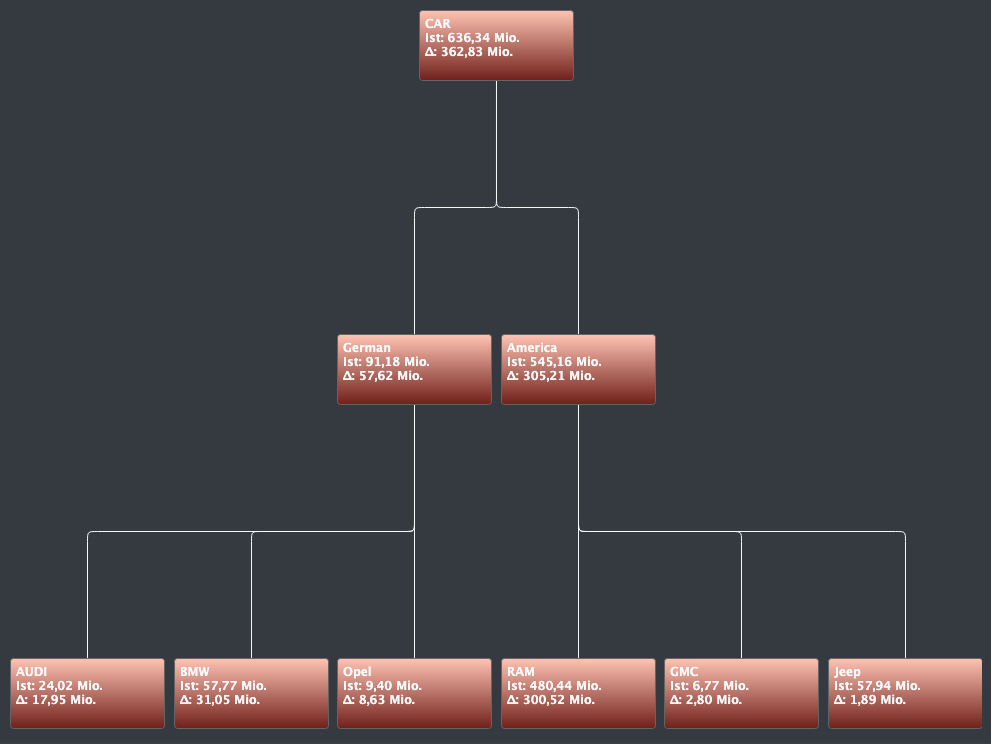
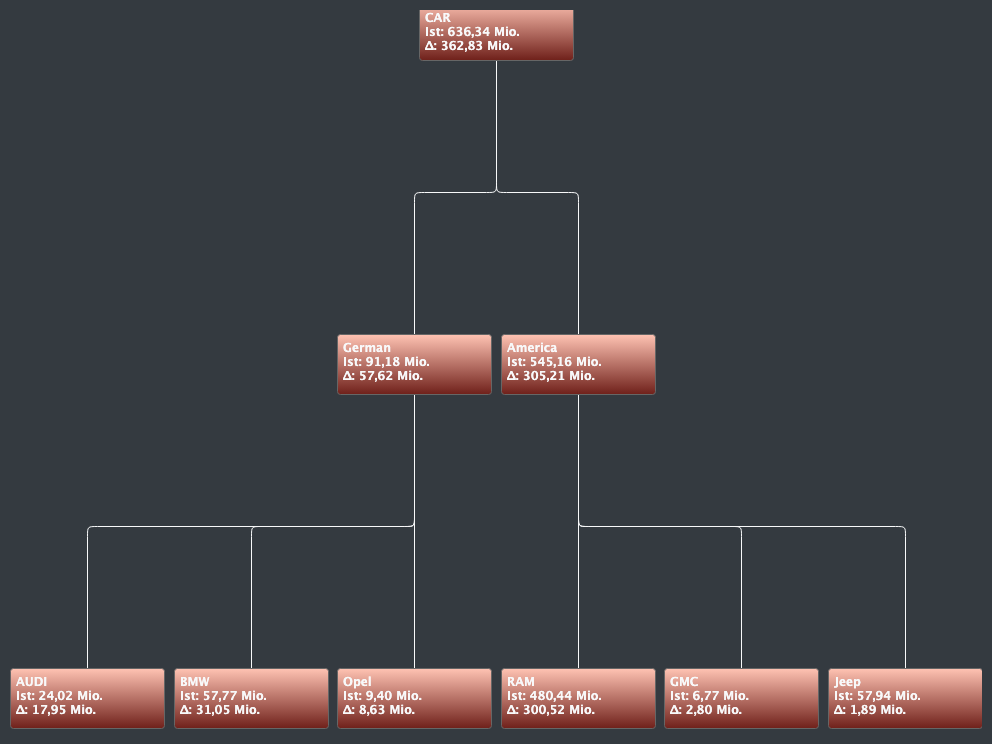
Update as at 05.08.24

Changed region(s): [[0.0, 0.8656, 1.0, 0.9583], [0.4062, 0.0, 0.5938, 0.1237], [0.3438, 0.5255, 0.6562, 0.5565]]

diff --git a/plot.html b/plot.html
@@ -51,9 +51,9 @@
 </head>
 <body>
 <div id="htmlwidget_container">
-  <div class="highchart html-widget html-fill-item" id="htmlwidget-99aafb618bbc64abfa17" style="width:100%;height:500px;"></div>
+  <div class="highchart html-widget html-fill-item" id="htmlwidget-4ff58604aa7c06865cc8" style="width:100%;height:500px;"></div>
 </div>
-<script type="application/json" data-for="htmlwidget-99aafb618bbc64abfa17">{"x":{"hc_opts":{"chart":{"reflow":true,"inverted":true,"backgroundColor":"#343A40"},"title":{"text":null},"yAxis":{"title":{"text":null}},"credits":{"enabled":false},"exporting":{"enabled":false},"boost":{"enabled":false},"plotOptions":{"series":{"label":{"enabled":false},"turboThreshold":0},"treemap":{"layoutAlgorithm":"squarified"},"organization":{"linkColor":"#f8f9fa","nodeWidth":70,"height":70}},"series":[{"data":[{"from":"CAR","to":"German"},{"from":"CAR","to":"America"},{"from":"German","to":"AUDI"},{"from":"German","to":"BMW"},{"from":"German","to":"Opel"},{"from":"America","to":"RAM"},{"from":"America","to":"GMC"},{"from":"America","to":"Jeep"}],"type":"organization","colorByPoint":false,"color":{"linearGradient":{"x1":0,"y1":0,"x2":1,"y2":0},"stops":[["0","#6F201A"],["1","#FFC3B3"]]},"dataLabels":{"enabled":true,"useHTML":true,"style":{"color":"#f8f9fa","fontSize":"12px","fontWeight":"bold","textOutline":false},"nodeFormatter":"function() {\n      let total_xy = 0;\n      let total_mn = 0;\n      if (this.point.id === 'German') {\n        ['AUDI', 'BMW', 'Opel'].forEach(function(id) {\n          let node = this.series.nodes.find(node => node.id === id);\n          if (node) {\n            total_xy += node.xy;\n            total_mn += node.mn;\n          }\n        }, this);\n        return this.point.name + '<br>Ist: ' + Highcharts.numberFormat(total_xy/1000000, 2, ',', '.') + ' Mio.<br>Δ: ' + Highcharts.numberFormat(total_mn/1000000, 2, ',', '.') + ' Mio.';\n      } else if (this.point.id === 'America') {\n        ['RAM', 'GMC', 'Jeep'].forEach(function(id) {\n          let node = this.series.nodes.find(node => node.id === id);\n          if (node) {\n            total_xy += node.xy;\n            total_mn += node.mn;\n          }\n        }, this);\n        return this.point.name + '<br>Ist: ' + Highcharts.numberFormat(total_xy/1000000, 2, ',', '.') + ' Mio.<br>Δ: ' + Highcharts.numberFormat(total_mn/1000000, 2, ',', '.') + ' Mio.';\n      } else if (this.point.id === 'AUDI' || this.point.id === 'BMW' || this.point.id === 'Opel' || this.point.id === 'RAM' || this.point.id === 'GMC' || this.point.id === 'Jeep') {\n        return this.point.name + '<br>Ist: ' + Highcharts.numberFormat(this.point.xy/1000000, 2, ',', '.') + ' Mio.<br>Δ: ' + Highcharts.numberFormat(this.point.mn/1000000, 2, ',', '.') + ' Mio.';\n      } else if (this.point.id === 'CAR') {\n        ['AUDI', 'BMW', 'Opel', 'RAM', 'GMC', 'Jeep'].forEach(function(id) {\n          let node = this.series.nodes.find(node => node.id === id);\n          if (node) {\n            total_xy += node.xy;\n            total_mn += node.mn;\n          }\n        }, this);\n        return this.point.name + '<br>Ist: ' + Highcharts.numberFormat(total_xy/1000000, 2, ',', '.') + ' Mio.<br>Δ: ' + Highcharts.numberFormat(total_mn/1000000, 2, ',', '.') + ' Mio.';\n      } else {\n        return this.point.name;\n      }\n    }"},"nodes":[{"id":"AUDI","xy":24015319,"mn":17945543},{"id":"RAM","xy":480442671,"mn":300517552},{"id":"BMW","xy":57765129,"mn":31052000},{"id":"GMC","xy":6772172,"mn":2798460},{"id":"Opel","xy":9401538,"mn":8626025},{"id":"Jeep","xy":57940350,"mn":1894563},{"id":"CAR"},{"id":"German"},{"id":"America"}]}],"tooltip":{"enabled":true,"useHTML":true,"className":null,"formatter":"function() {\n      let total_xy = 0;\n      let total_mn = 0;\n      if (this.point.id === 'German') {\n        ['AUDI', 'BMW', 'Opel'].forEach(function(id) {\n          let node = this.series.nodes.find(node => node.id === id);\n          if (node) {\n            total_xy += node.xy;\n            total_mn += node.mn;\n          }\n        }, this);\n        return this.point.name + '<br>Total: ' + total_xy.toLocaleString('de-DE') + '<br>Change: ' + total_mn.toLocaleString('de-DE');\n      } else if (this.point.id === 'America') {\n        ['RAM', 'GMC', 'Jeep'].forEach(function(id) {\n          let node = this.series.nodes.find(node => node.id === id);\n          if (node) {\n            total_xy += node.xy;\n            total_mn += node.mn;\n          }\n        }, this);\n        return this.point.name + '<br>Total: ' + total_xy.toLocaleString('de-DE') + '<br>Change: ' + total_mn.toLocaleString('de-DE');\n      } else if (this.point.id === 'AUDI' || this.point.id === 'BMW' || this.point.id === 'Opel' || this.point.id === 'RAM' || this.point.id === 'GMC' || this.point.id === 'Jeep') {\n        return this.point.name + '<br>Total: ' + this.point.xy.toLocaleString('de-DE') + '<br>Change: ' + this.point.mn.toLocaleString('de-DE');\n      } else if (this.point.id === 'CAR') {\n        ['AUDI', 'BMW', 'Opel', 'RAM', 'GMC', 'Jeep'].forEach(function(id) {\n          let node = this.series.nodes.find(node => node.id === id);\n          if (node) {\n            total_xy += node.xy;\n            total_mn += node.mn;\n          }\n        }, this);\n        return this.point.name + '<br>Total: ' + total_xy.toLocaleString('de-DE') + '<br>Change: ' + total_mn.toLocaleString('de-DE');\n      } else {\n        return this.point.name;\n      }\n    }"}},"theme":{"chart":{"backgroundColor":"transparent"},"colors":["#7cb5ec","#434348","#90ed7d","#f7a35c","#8085e9","#f15c80","#e4d354","#2b908f","#f45b5b","#91e8e1"]},"conf_opts":{"global":{"Date":null,"VMLRadialGradientURL":"http =//code.highcharts.com/list(version)/gfx/vml-radial-gradient.png","canvasToolsURL":"http =//code.highcharts.com/list(version)/modules/canvas-tools.js","getTimezoneOffset":null,"timezoneOffset":0,"useUTC":true},"lang":{"contextButtonTitle":"Chart context menu","decimalPoint":".","downloadCSV":"Download CSV","downloadJPEG":"Download JPEG image","downloadPDF":"Download PDF document","downloadPNG":"Download PNG image","downloadSVG":"Download SVG vector image","downloadXLS":"Download XLS","drillUpText":"◁ Back to {series.name}","exitFullscreen":"Exit from full screen","exportData":{"annotationHeader":"Annotations","categoryDatetimeHeader":"DateTime","categoryHeader":"Category"},"hideData":"Hide data table","invalidDate":null,"loading":"Loading...","months":["January","February","March","April","May","June","July","August","September","October","November","December"],"noData":"No data to display","numericSymbolMagnitude":1000,"numericSymbols":["k","M","G","T","P","E"],"printChart":"Print chart","resetZoom":"Reset zoom","resetZoomTitle":"Reset zoom level 1:1","shortMonths":["Jan","Feb","Mar","Apr","May","Jun","Jul","Aug","Sep","Oct","Nov","Dec"],"shortWeekdays":["Sat","Sun","Mon","Tue","Wed","Thu","Fri"],"thousandsSep":" ","viewData":"View data table","viewFullscreen":"View in full screen","weekdays":["Sunday","Monday","Tuesday","Wednesday","Thursday","Friday","Saturday"]}},"type":"chart","fonts":[],"debug":false},"evals":["hc_opts.series.0.dataLabels.nodeFormatter","hc_opts.tooltip.formatter"],"jsHooks":[]}</script>
-<script type="application/htmlwidget-sizing" data-for="htmlwidget-99aafb618bbc64abfa17">{"viewer":{"width":"100%","height":350,"padding":0,"fill":true},"browser":{"width":"100%","height":500,"padding":0,"fill":true}}</script>
+<script type="application/json" data-for="htmlwidget-4ff58604aa7c06865cc8">{"x":{"hc_opts":{"chart":{"reflow":true,"inverted":true,"backgroundColor":"#343A40"},"title":{"text":null},"yAxis":{"title":{"text":null}},"credits":{"enabled":false},"exporting":{"enabled":false},"boost":{"enabled":false},"plotOptions":{"series":{"label":{"enabled":false},"turboThreshold":0},"treemap":{"layoutAlgorithm":"squarified"},"organization":{"linkColor":"#f8f9fa","nodeWidth":50,"height":60}},"series":[{"data":[{"from":"CAR","to":"German"},{"from":"CAR","to":"America"},{"from":"German","to":"AUDI"},{"from":"German","to":"BMW"},{"from":"German","to":"Opel"},{"from":"America","to":"RAM"},{"from":"America","to":"GMC"},{"from":"America","to":"Jeep"}],"type":"organization","colorByPoint":false,"linkLength":20,"color":{"linearGradient":{"x1":0,"y1":0,"x2":1,"y2":0},"stops":[["0","#6F201A"],["1","#FFC3B3"]]},"dataLabels":{"enabled":true,"useHTML":true,"style":{"color":"#f8f9fa","fontSize":"12px","fontWeight":"bold","textOutline":false},"nodeFormatter":"function() {\n      let total_xy = 0;\n      let total_mn = 0;\n      if (this.point.id === 'German') {\n        ['AUDI', 'BMW', 'Opel'].forEach(function(id) {\n          let node = this.series.nodes.find(node => node.id === id);\n          if (node) {\n            total_xy += node.xy;\n            total_mn += node.mn;\n          }\n        }, this);\n        return this.point.name + '<br>Ist: ' + Highcharts.numberFormat(total_xy/1000000, 2, ',', '.') + ' Mio.<br>Δ: ' + Highcharts.numberFormat(total_mn/1000000, 2, ',', '.') + ' Mio.';\n      } else if (this.point.id === 'America') {\n        ['RAM', 'GMC', 'Jeep'].forEach(function(id) {\n          let node = this.series.nodes.find(node => node.id === id);\n          if (node) {\n            total_xy += node.xy;\n            total_mn += node.mn;\n          }\n        }, this);\n        return this.point.name + '<br>Ist: ' + Highcharts.numberFormat(total_xy/1000000, 2, ',', '.') + ' Mio.<br>Δ: ' + Highcharts.numberFormat(total_mn/1000000, 2, ',', '.') + ' Mio.';\n      } else if (this.point.id === 'AUDI' || this.point.id === 'BMW' || this.point.id === 'Opel' || this.point.id === 'RAM' || this.point.id === 'GMC' || this.point.id === 'Jeep') {\n        return this.point.name + '<br>Ist: ' + Highcharts.numberFormat(this.point.xy/1000000, 2, ',', '.') + ' Mio.<br>Δ: ' + Highcharts.numberFormat(this.point.mn/1000000, 2, ',', '.') + ' Mio.';\n      } else if (this.point.id === 'CAR') {\n        ['AUDI', 'BMW', 'Opel', 'RAM', 'GMC', 'Jeep'].forEach(function(id) {\n          let node = this.series.nodes.find(node => node.id === id);\n          if (node) {\n            total_xy += node.xy;\n            total_mn += node.mn;\n          }\n        }, this);\n        return this.point.name + '<br>Ist: ' + Highcharts.numberFormat(total_xy/1000000, 2, ',', '.') + ' Mio.<br>Δ: ' + Highcharts.numberFormat(total_mn/1000000, 2, ',', '.') + ' Mio.';\n      } else {\n        return this.point.name;\n      }\n    }"},"nodes":[{"id":"AUDI","xy":24015319,"mn":17945543},{"id":"RAM","xy":480442671,"mn":300517552},{"id":"BMW","xy":57765129,"mn":31052000},{"id":"GMC","xy":6772172,"mn":2798460},{"id":"Opel","xy":9401538,"mn":8626025},{"id":"Jeep","xy":57940350,"mn":1894563},{"id":"CAR"},{"id":"German"},{"id":"America"}]}],"tooltip":{"enabled":true,"useHTML":true,"className":null,"formatter":"function() {\n      let total_xy = 0;\n      let total_mn = 0;\n      if (this.point.id === 'German') {\n        ['AUDI', 'BMW', 'Opel'].forEach(function(id) {\n          let node = this.series.nodes.find(node => node.id === id);\n          if (node) {\n            total_xy += node.xy;\n            total_mn += node.mn;\n          }\n        }, this);\n        return this.point.name + '<br>Total: ' + total_xy.toLocaleString('de-DE') + '<br>Change: ' + total_mn.toLocaleString('de-DE');\n      } else if (this.point.id === 'America') {\n        ['RAM', 'GMC', 'Jeep'].forEach(function(id) {\n          let node = this.series.nodes.find(node => node.id === id);\n          if (node) {\n            total_xy += node.xy;\n            total_mn += node.mn;\n          }\n        }, this);\n        return this.point.name + '<br>Total: ' + total_xy.toLocaleString('de-DE') + '<br>Change: ' + total_mn.toLocaleString('de-DE');\n      } else if (this.point.id === 'AUDI' || this.point.id === 'BMW' || this.point.id === 'Opel' || this.point.id === 'RAM' || this.point.id === 'GMC' || this.point.id === 'Jeep') {\n        return this.point.name + '<br>Total: ' + this.point.xy.toLocaleString('de-DE') + '<br>Change: ' + this.point.mn.toLocaleString('de-DE');\n      } else if (this.point.id === 'CAR') {\n        ['AUDI', 'BMW', 'Opel', 'RAM', 'GMC', 'Jeep'].forEach(function(id) {\n          let node = this.series.nodes.find(node => node.id === id);\n          if (node) {\n            total_xy += node.xy;\n            total_mn += node.mn;\n          }\n        }, this);\n        return this.point.name + '<br>Total: ' + total_xy.toLocaleString('de-DE') + '<br>Change: ' + total_mn.toLocaleString('de-DE');\n      } else {\n        return this.point.name;\n      }\n    }"}},"theme":{"chart":{"backgroundColor":"transparent"},"colors":["#7cb5ec","#434348","#90ed7d","#f7a35c","#8085e9","#f15c80","#e4d354","#2b908f","#f45b5b","#91e8e1"]},"conf_opts":{"global":{"Date":null,"VMLRadialGradientURL":"http =//code.highcharts.com/list(version)/gfx/vml-radial-gradient.png","canvasToolsURL":"http =//code.highcharts.com/list(version)/modules/canvas-tools.js","getTimezoneOffset":null,"timezoneOffset":0,"useUTC":true},"lang":{"contextButtonTitle":"Chart context menu","decimalPoint":".","downloadCSV":"Download CSV","downloadJPEG":"Download JPEG image","downloadPDF":"Download PDF document","downloadPNG":"Download PNG image","downloadSVG":"Download SVG vector image","downloadXLS":"Download XLS","drillUpText":"◁ Back to {series.name}","exitFullscreen":"Exit from full screen","exportData":{"annotationHeader":"Annotations","categoryDatetimeHeader":"DateTime","categoryHeader":"Category"},"hideData":"Hide data table","invalidDate":null,"loading":"Loading...","months":["January","February","March","April","May","June","July","August","September","October","November","December"],"noData":"No data to display","numericSymbolMagnitude":1000,"numericSymbols":["k","M","G","T","P","E"],"printChart":"Print chart","resetZoom":"Reset zoom","resetZoomTitle":"Reset zoom level 1:1","shortMonths":["Jan","Feb","Mar","Apr","May","Jun","Jul","Aug","Sep","Oct","Nov","Dec"],"shortWeekdays":["Sat","Sun","Mon","Tue","Wed","Thu","Fri"],"thousandsSep":" ","viewData":"View data table","viewFullscreen":"View in full screen","weekdays":["Sunday","Monday","Tuesday","Wednesday","Thursday","Friday","Saturday"]}},"type":"chart","fonts":[],"debug":false},"evals":["hc_opts.series.0.dataLabels.nodeFormatter","hc_opts.tooltip.formatter"],"jsHooks":[]}</script>
+<script type="application/htmlwidget-sizing" data-for="htmlwidget-4ff58604aa7c06865cc8">{"viewer":{"width":"100%","height":350,"padding":0,"fill":true},"browser":{"width":"100%","height":500,"padding":0,"fill":true}}</script>
 </body>
 </html>

diff --git a/README.md b/README.md
@@ -52,10 +52,6 @@ library(highcharter)
     ##   method            from
     ##   as.zoo.data.frame zoo
 
-    ## Highcharts (www.highcharts.com) is a Highsoft software product which is
-
-    ## not free for commercial and Governmental use
-
 ``` r
 library(dplyr)
 ```
@@ -185,13 +181,15 @@ hc <- highchart() %>%
   ## The plotOptions is a wrapper object for the configuration of objects for each series type
   hc_plotOptions(organization = list(
     linkColor = "#f8f9fa",
-    nodeWidth = 70,
-    height = 70
+    nodeWidth = 50,
+    height = 60
+    # linkLength = 20
   )) %>%
   
   hc_add_series(data = dt,
                 type = "organization",
                 colorByPoint = FALSE,
+                linkLength = 20,
                 color = list(
                   linearGradient = list(x1 = 0, y1 = 0, x2 = 1, y2 = 0),
                   stops = list(

diff --git a/AutoStruct_Dynamics.md b/AutoStruct_Dynamics.md
@@ -9,10 +9,6 @@ library(highcharter)
     ##   method            from
     ##   as.zoo.data.frame zoo
 
-    ## Highcharts (www.highcharts.com) is a Highsoft software product which is
-
-    ## not free for commercial and Governmental use
-
 ``` r
 library(dplyr)
 ```
@@ -142,13 +138,15 @@ hc <- highchart() %>%
   ## The plotOptions is a wrapper object for the configuration of objects for each series type
   hc_plotOptions(organization = list(
     linkColor = "#f8f9fa",
-    nodeWidth = 70,
-    height = 70
+    nodeWidth = 50,
+    height = 60
+    # linkLength = 20
   )) %>%
   
   hc_add_series(data = dt,
                 type = "organization",
                 colorByPoint = FALSE,
+                linkLength = 20,
                 color = list(
                   linearGradient = list(x1 = 0, y1 = 0, x2 = 1, y2 = 0),
                   stops = list(
